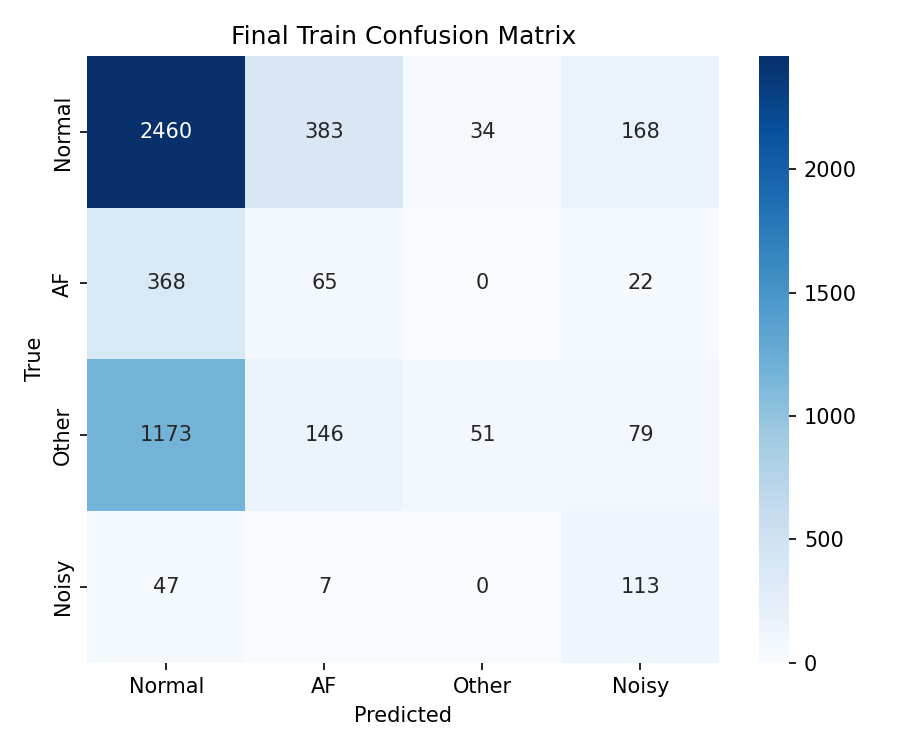
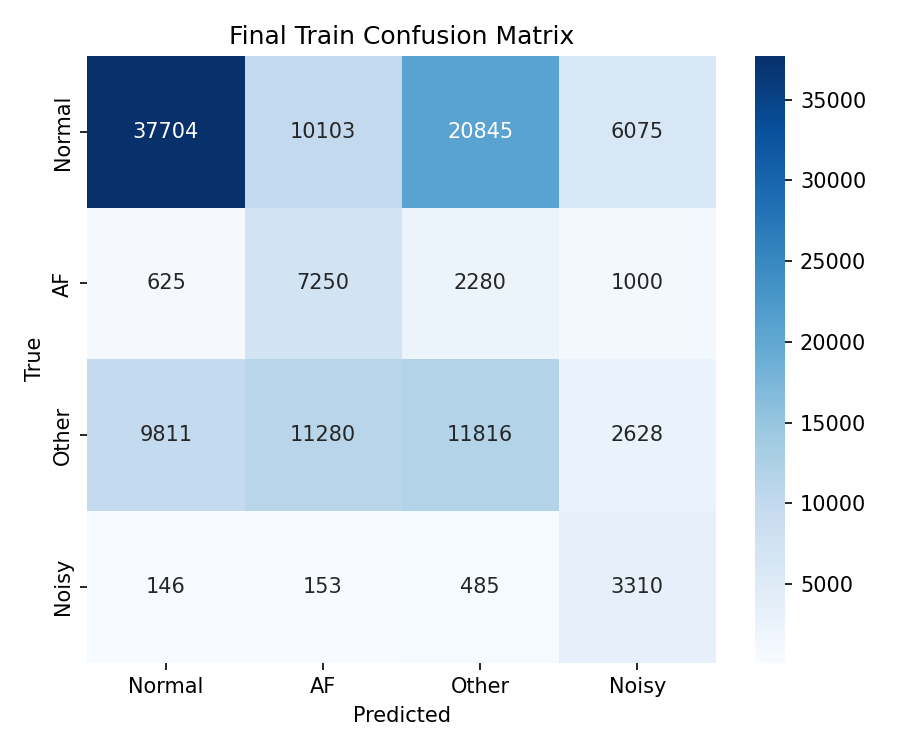
Add overlapping segmentation
- Implemented segmenting the signal into 600-sample windows with a 400-step overlap (~33% overlap).
- Accuracy remained roughly the same, while AUC/ROC improved significantly.
- This suggests the model now achieves a more refined probability ranking (better discrimination among classes) at the same accuracy level.
- Overlap segmentation not only helps the model capture features more effectively but also acts as a form of data augmentation.

diff --git a/src/feature/segmentation.py b/src/feature/segmentation.py
@@ -1,0 +1,223 @@
+# Standard library imports
+from typing import Annotated
+
+# Third-party imports
+import numpy as np
+
+
+class Segment:
+    """
+    Segment is a class that splits a 1D signal into segments of a specified
+    window size with an optional step (for overlap) and optional padding of the
+    last segment.
+
+    Parameters
+    ----------
+    window : int, optional
+        Length of each segment window. Defaults to 3000.
+    step : int, optional
+        Step size for the segmentation (controls overlap). Defaults to 1500.
+    pad : bool, optional
+        Whether to pad the last segment if it is shorter than the window size.
+        Defaults to False.
+
+    Attributes
+    ----------
+    window : int
+        Length of each segment window.
+    step : int
+        Step size (overlap) for the segments.
+    pad : bool
+        Whether to pad the last segment if it is shorter than the window size.
+
+    Methods
+    -------
+    split(signal)
+        Splits the provided 1D signal into a list of segments based on the
+        specified window and step.
+    """
+
+    def __init__(
+            self,
+            window: Annotated[int, "Length of each segment window"] = 3000,
+            step: Annotated[int, "Step size for segmentation overlap"] = 1500,
+            pad: Annotated[bool, "Whether to pad the last segment"] = False
+    ) -> None:
+        """
+        Initialize the Segment object.
+
+        Parameters
+        ----------
+        window : int, optional
+            Length of each segment window. Defaults to 3000.
+        step : int, optional
+            Step size for segmentation (controls overlap). Defaults to 1500.
+        pad : bool, optional
+            Whether to pad the last segment if it is shorter than the window
+            size. Defaults to False.
+        """
+        if not isinstance(window, int):
+            raise TypeError("Expected int for parameter 'window'.")
+        if not isinstance(step, int):
+            raise TypeError("Expected int for parameter 'step'.")
+        if not isinstance(pad, bool):
+            raise TypeError("Expected bool for parameter 'pad'.")
+
+        self.window = window
+        self.step = step
+        self.pad = pad
+
+    def split(
+            self,
+            signal: Annotated[np.ndarray, "1D signal to be segmented"]
+    ) -> Annotated[list[np.ndarray], "List of 1D segments as NumPy arrays"]:
+        """
+        Split the 1D signal into segments based on the specified window and step.
+        If the final segment is shorter than the window size and `pad` is True,
+        the segment will be zero-padded. Otherwise, the splitting will stop
+        before the incomplete segment.
+
+        Parameters
+        ----------
+        signal : numpy.ndarray
+            1D signal to be segmented.
+
+        Returns
+        -------
+        list of numpy.ndarray
+            A list of 1D segments extracted from the signal.
+
+        Examples
+        --------
+        >>> s = Segment(window=5, step=3, pad=True)
+        >>> x = np.array([1, 2, 3, 4, 5, 6, 7])
+        >>> dummy_segment = s.split(x)
+        >>> segments[0]
+        array([1, 2, 3, 4, 5])
+        >>> segments[1]
+        array([4, 5, 6, 7, 0])
+        """
+        if not isinstance(signal, np.ndarray):
+            raise TypeError("Expected np.ndarray for parameter 'signal'.")
+        if signal.ndim != 1:
+            raise ValueError("Expected a 1D array for parameter 'signal'.")
+
+        segments = []
+        n = len(signal)
+        start = 0
+
+        while start < n:
+            end = start + self.window
+            segment = signal[start:end]
+
+            if len(segment) < self.window:
+                if self.pad:
+                    diff = self.window - len(segment)
+                    segment = np.pad(segment, (0, diff))
+                else:
+                    break
+
+            segments.append(segment)
+            start += self.step
+
+        return segments
+
+
+class OverlapSegment(Segment):
+    """
+    OverlapSegment extends the Segment class to handle segmentation of multiple
+    signals along with their corresponding labels. The signals and labels must
+    be of the same length along the first dimension.
+
+    Methods
+    -------
+    overlap_split(signals, labels)
+        Splits each signal into overlapping segments and duplicates the labels
+        accordingly.
+    """
+
+    def overlap_split(
+            self,
+            signals: Annotated[np.ndarray, "2D array of signals, shape (N, length)"],
+            labels: Annotated[np.ndarray, "1D array of labels, shape (N,)"]
+    ) -> Annotated[
+        tuple[np.ndarray, np.ndarray],
+        "Tuple containing the segmented signals and corresponding labels"
+    ]:
+        """
+        Split each of the provided signals into overlapping segments using
+        the inherited `split` method. The corresponding label is repeated
+        for each segment of a particular signal.
+
+        Parameters
+        ----------
+        signals : numpy.ndarray
+            A 2D array of shape (N, length), where each row represents a
+            separate signal to be segmented.
+        labels : numpy.ndarray
+            A 1D array of shape (N,) containing labels corresponding to the
+            signals.
+
+        Returns
+        -------
+        tuple of numpy.ndarray
+            A tuple (new_signals, new_labels), where `new_signals` is a 2D array
+            of shape (M, window), and `new_labels` is a 1D array of shape (M,).
+            M depends on the segmentation process.
+
+        Raises
+        ------
+        ValueError
+            If the number of signals does not match the number of labels.
+
+        Examples
+        --------
+        >>> dummy_signals = np.array([
+        ...     [1, 2, 3, 4, 5, 6],
+        ...     [7, 8, 9, 10, 11, 12]
+        ... ])
+        >>> dummy_labels = np.array([0, 1])
+        >>> dummy_seg = OverlapSegment(window=3, step=2, pad=True)
+        >>> new_sigs, new_labs = dummy_seg.overlap_split(signals, labels)
+        >>> new_sigs.shape
+        (4, 3)
+        >>> new_labs
+        array([0, 0, 1, 1])
+        """
+        if not isinstance(signals, np.ndarray):
+            raise TypeError("Expected np.ndarray for parameter 'signals'.")
+        if not isinstance(labels, np.ndarray):
+            raise TypeError("Expected np.ndarray for parameter 'labels'.")
+        if signals.shape[0] != labels.shape[0]:
+            raise ValueError("Signals and labels must have the same length.")
+
+        all_segments = []
+        all_labels = []
+
+        for i in range(signals.shape[0]):
+            ecg_signal = signals[i]
+            label = labels[i]
+
+            segments = self.split(ecg_signal)
+            for seg in segments:
+                all_segments.append(seg)
+                all_labels.append(label)
+
+        new_signals = np.array(all_segments)
+        new_labels = np.array(all_labels)
+
+        return new_signals, new_labels
+
+
+if __name__ == "__main__":
+    test_signals = np.random.randn(3, 1200)
+    test_labels = np.array([0, 1, 0])
+
+    test_segments = OverlapSegment(window=600, step=400, pad=True)
+
+    new_x, new_y = test_segments.overlap_split(test_signals, test_labels)
+
+    print("Segmented signals shape:", new_x.shape)
+    print("Labels shape:", new_y.shape)
+    print("First segment shape:", new_x[0].shape)
+    print("First segment label:", new_y[0])

diff --git a/main.py b/main.py
@@ -15,6 +15,7 @@ from sklearn.model_selection import train_test_split
 from src.model.model import OneDCNN
 from src.utils.log.manager import LoggerManager
 from src.utils.data.manager import DataManager, DatasetLoader
+from src.feature.segmentation import OverlapSegment
 from src.model.train import Trainer, InverseFrequencyClassWeighting
 
 
@@ -42,6 +43,9 @@ def main() -> Annotated[None, "This function does not return anything"]:
     batch_size = config.train.onedcnn.training.batch
     model = OneDCNN(config.train.onedcnn.model).to(device)
     trainer_config = config.train.onedcnn.training
+    overlap_segment_config = config.data.segment.overlap
+    window_size = overlap_segment_config.window
+    step_size = overlap_segment_config.step
 
     # Initialize classes
     logger = LoggerManager(console_level=logging.INFO).get_logger()
@@ -64,7 +68,7 @@ def main() -> Annotated[None, "This function does not return anything"]:
     x_temp, x_test, y_temp, y_test = train_test_split(
         all_signals_np,
         all_labels_np,
-        test_size=0.2,
+        test_size=config.data.splits.test,
         stratify=all_labels_np,
         random_state=config.data.splits.state
     )
@@ -72,7 +76,7 @@ def main() -> Annotated[None, "This function does not return anything"]:
     x_train, x_val, y_train, y_val = train_test_split(
         x_temp,
         y_temp,
-        test_size=0.25,
+        test_size=config.data.splits.validation,
         stratify=y_temp,
         random_state=config.data.splits.state
     )
@@ -81,22 +85,37 @@ def main() -> Annotated[None, "This function does not return anything"]:
     logger.info(f"Validation shape: {x_val.shape}, {y_val.shape}")
     logger.info(f"Test shape: {x_test.shape}, {y_test.shape}")
 
-    train_dataset = DatasetLoader(x_train, y_train)
-    val_dataset = DatasetLoader(x_val, y_val)
-    test_dataset = DatasetLoader(x_test, y_test)
+    # Segmentation
+    logger.info(f"Using OverlapSegment => window={window_size}, step={step_size}")
+
+    overlap_seg = OverlapSegment(
+        window=window_size,
+        step=step_size,
+        pad=True
+    )
+
+    x_train_seg, y_train_seg = overlap_seg.overlap_split(x_train, y_train)
+    x_val_seg, y_val_seg = overlap_seg.overlap_split(x_val, y_val)
+    x_test_seg, y_test_seg = overlap_seg.overlap_split(x_test, y_test)
+
+    logger.info(f"[Overlap] Train={x_train_seg.shape}, Val={x_val_seg.shape}, Test={x_test_seg.shape}")
+
+    train_dataset = DatasetLoader(x_train_seg, y_train_seg)
+    val_dataset = DatasetLoader(x_val_seg, y_val_seg)
+    test_dataset = DatasetLoader(x_test_seg, y_test_seg)
 
     train_loader = DataLoader(train_dataset, batch_size=batch_size, shuffle=True)
     val_loader = DataLoader(val_dataset, batch_size=batch_size, shuffle=False)
     test_loader = DataLoader(test_dataset, batch_size=batch_size, shuffle=False)
 
     # Inverse-Frequency Class Weighting & Loss
-    unique_classes = np.unique(y_train)
+    unique_classes = np.unique(y_train_seg)
     num_classes = len(unique_classes)
     class_counts = [np.sum(y_train == c) for c in unique_classes]
     logger.info(f"Class distributions (train): {class_counts}")
 
     ifcw = InverseFrequencyClassWeighting(
-        y_train=y_train,
+        y_train=y_train_seg,
         num_classes=num_classes
     )
     class_weights_tensor = ifcw.get_weight_tensor(device=device)
@@ -131,10 +150,11 @@ def main() -> Annotated[None, "This function does not return anything"]:
         save_roc=True,
     )
 
-    logger.info("Trainer created, training is starting...")
+    logger.info("Training is starting...")
     torch.autograd.set_detect_anomaly(True)
     trainer.run()
 
+    # Final test evaluation
     logger.info("=== Final Test Evaluation ===")
     trainer.evaluate(-1, test_loader, mode="Test")
     logger.info("=== Completed. ===")
